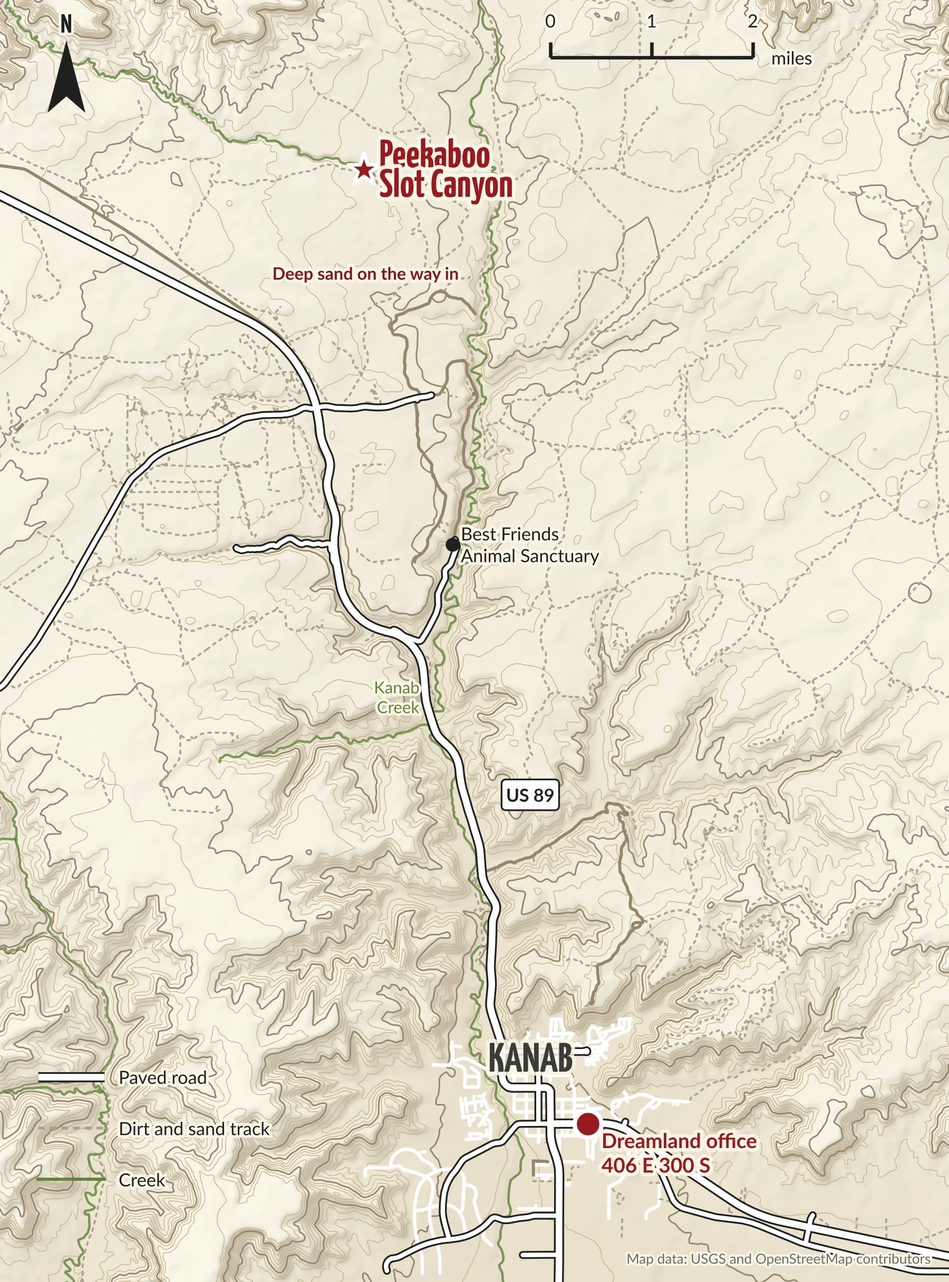
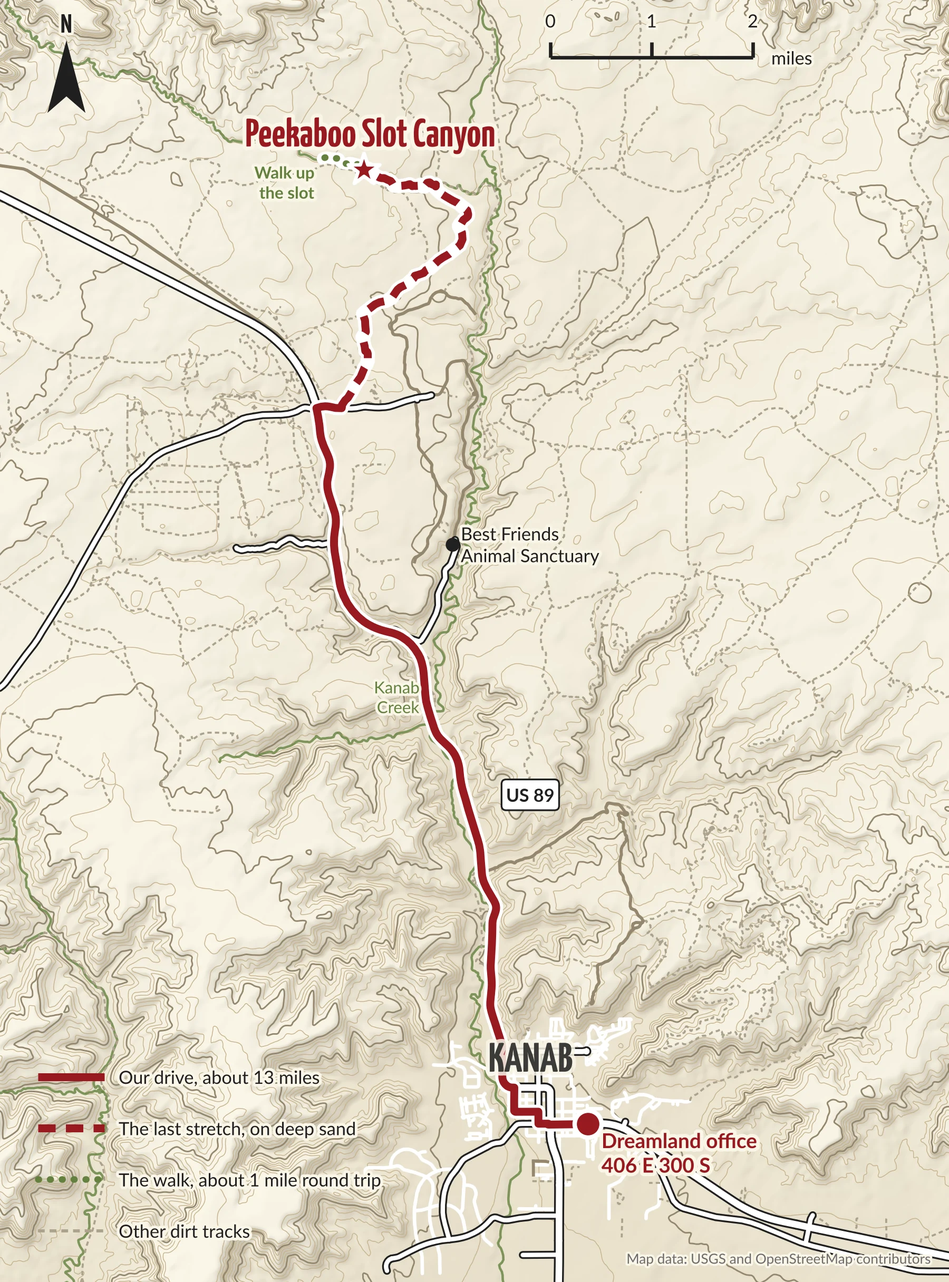
Preview: Peekaboo map with Dreamland's drive route and the slot walk

diff --git a/community-locals-7f3k2q/index.html b/community-locals-7f3k2q/index.html
@@ -74,12 +74,12 @@
 <section class="sec"><div class="wrap split map-split">
   <figure class="map"><a class="map-open" href="/pat-pages/community-locals-7f3k2q/assets/img/map-peekaboo-lg.webp" title="Open the map full size"><picture>
     <source media="(max-width: 760px)" srcset="/pat-pages/community-locals-7f3k2q/assets/img/map-peekaboo-phone.webp">
-    <img src="/pat-pages/community-locals-7f3k2q/assets/img/map-peekaboo.webp" alt="Map from the Dreamland office in Kanab north along US 89 past Best Friends Animal Sanctuary to Peekaboo Slot Canyon, with the dirt and sand tracks near the canyon" width="900" height="1216" loading="lazy">
+    <img src="/pat-pages/community-locals-7f3k2q/assets/img/map-peekaboo.webp" alt="Map of our route from the Dreamland office in Kanab north on US 89, then on a deep sand road to Peekaboo Slot Canyon, and the short walk up the slot" width="900" height="1216" loading="lazy">
   </picture></a></figure>
   <div>
     <div class="kick">Getting there</div>
     <h2>From our office to the slot</h2>
-    <p>Everyone meets at our office at 406 E 300 S in Kanab by 1:45 PM, and once we've checked IDs we head north out of town.</p>
+    <p>Everyone meets at our office at 406 E 300 S in Kanab by 1:45 PM, and once we've checked IDs we head north out of town. It's about 13 miles to the slot, most of it on US 89.</p>
     <p>The last stretch into Peekaboo is some of the deepest, finest sand of any of our tours, which is why we do the driving in our capable trucks. We'll have you back at the office around 5 PM.</p>
     <p class="fine">Click the map to see it full size. Map data: USGS and OpenStreetMap contributors.</p>
   </div>
